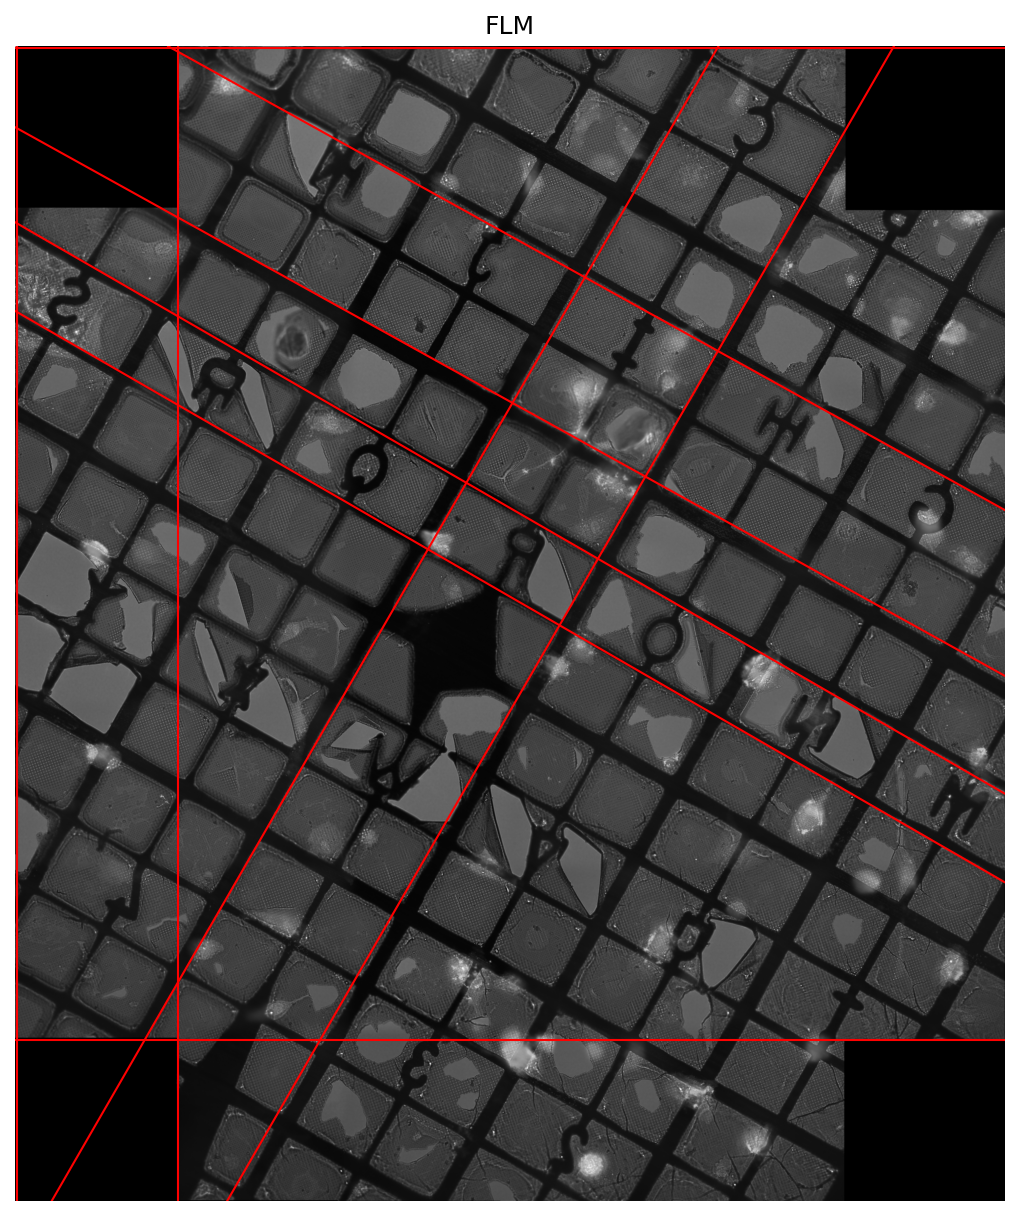
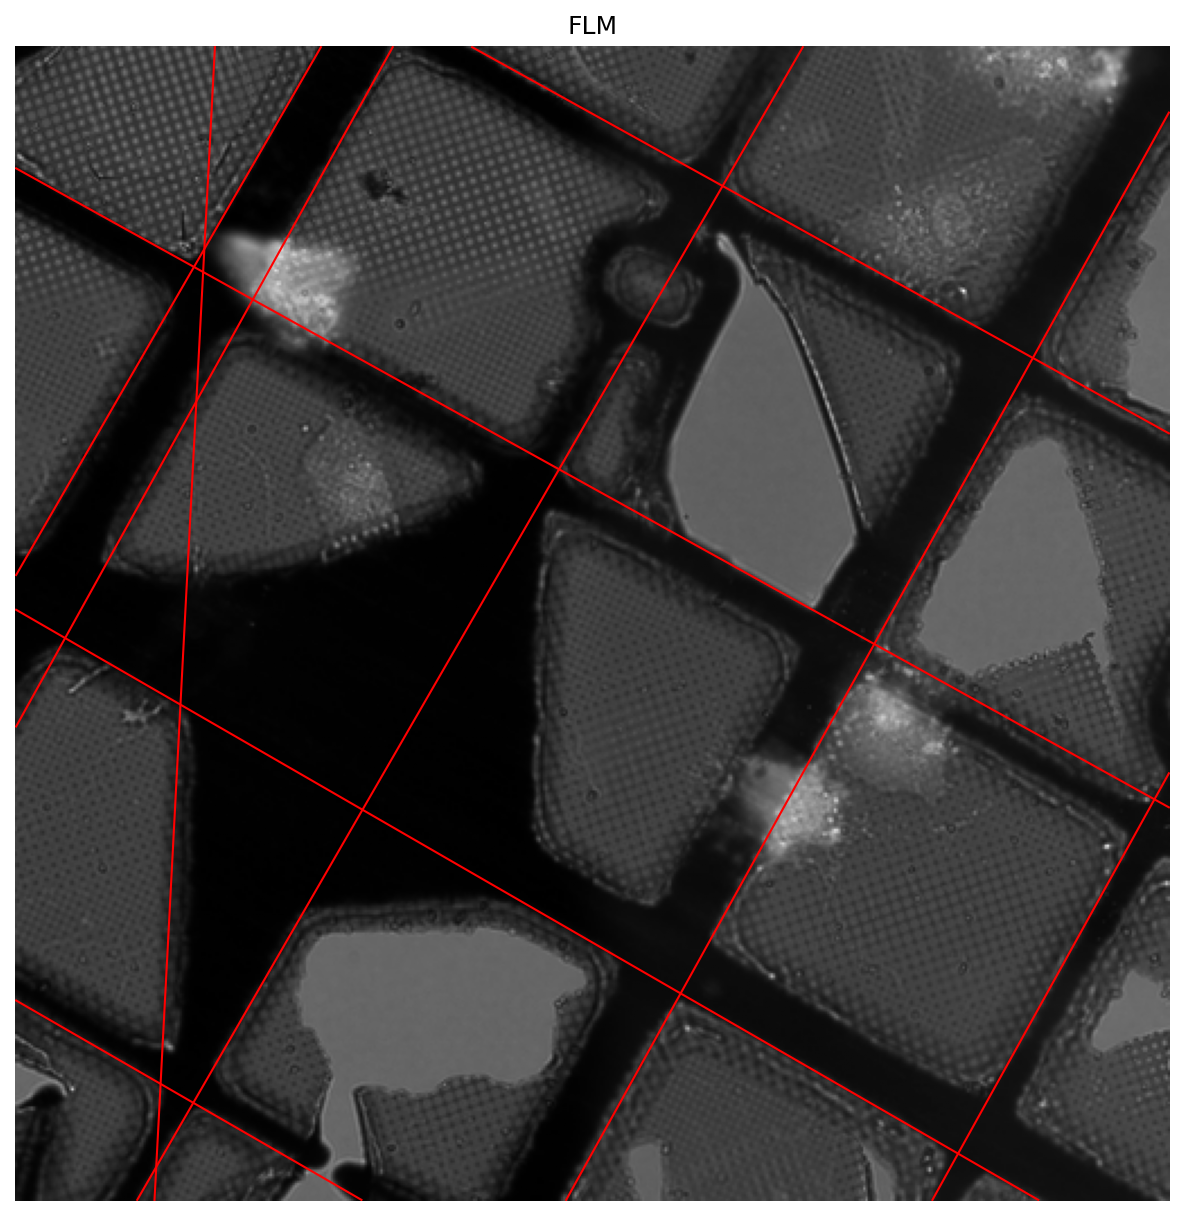
saving image as 512 x 512 is such a difficult task

diff --git a/detect_lines.py b/detect_lines.py
@@ -31,58 +31,96 @@ def detect_grid_lines(img, sigma=3, threshold=0.2, min_distance=50, min_angle=10
         lines.append((angle_val, dist_val))
     return lines, edges
 
-def visualize_detected_lines(img, lines, title="Detected Lines"):
-    """Visualize Hough lines that intersect the image."""
+def overlay_hough_lines(img, lines, value=255):
+    """
+    Draw Hough lines directly into a numpy image.
 
-    fig, ax = plt.subplots(1, 1, figsize=(10, 10))
+    img   : 2D numpy array (grayscale)
+    lines : list of (theta, d)
+    value : pixel value for lines
+
+    returns: new numpy array with lines overlaid
+    """
+    out = img.copy()
+    h, w = out.shape
+
+    for theta, d in lines:
+        cos_t, sin_t = np.cos(theta), np.sin(theta)
+        points = []
+
+        # Intersections with image borders
+        if abs(sin_t) > 1e-6:
+            y = d / sin_t
+            if 0 <= y < h:
+                points.append((0, y))
+            y = (d - (w - 1) * cos_t) / sin_t
+            if 0 <= y < h:
+                points.append((w - 1, y))
+
+        if abs(cos_t) > 1e-6:
+            x = d / cos_t
+            if 0 <= x < w:
+                points.append((x, 0))
+            x = (d - (h - 1) * sin_t) / cos_t
+            if 0 <= x < w:
+                points.append((x, h - 1))
+
+        if len(points) >= 2:
+            (x0, y0), (x1, y1) = points[:2]
+            x0, y0, x1, y1 = map(int, [x0, y0, x1, y1])
+
+            # Bresenham-style rasterization
+            rr = np.linspace(y0, y1, 1000).astype(int)
+            cc = np.linspace(x0, x1, 1000).astype(int)
+            valid = (rr >= 0) & (rr < h) & (cc >= 0) & (cc < w)
+            out[rr[valid], cc[valid]] = value
+
+    return out
+
+def visualize_detected_lines(img, lines, title="Detected Lines"):
+    """Visualize Hough lines overlaid on image and save as is."""
+
+    fig, ax = plt.subplots(1, 1, figsize=(10, 10), dpi=100)
     ax.imshow(img, cmap='gray')
     ax.set_title(title)
     ax.axis('off')
-
-    h, w = img.shape
-    lines_drawn = 0
-
+    ax.set_xlim(0, img.shape[1])
+    ax.set_ylim(img.shape[0], 0)  # Preserve top-to-bottom orientation
     for angle, dist in lines:
-        # Normal vector
-        cos_a = np.cos(angle)
-        sin_a = np.sin(angle)
-
-        # Find intersections with image boundaries
+        cos_a, sin_a = np.cos(angle), np.sin(angle)
         points = []
 
-        # Left edge: x = 0
-        if abs(sin_a) > 1e-6:
-            y = (dist - 0 * cos_a) / sin_a
-            if 0 <= y <= h - 1:
-                points.append((0, y))
+        # Intersections with image boundaries
+        h, w = img.shape
+        edges = [
+            (0, 0, w, 0),         # top
+            (w, 0, w, h),         # right
+            (w, h, 0, h),         # bottom
+            (0, h, 0, 0)          # left
+        ]
 
-        # Right edge: x = w - 1
-        if abs(sin_a) > 1e-6:
-            y = (dist - (w - 1) * cos_a) / sin_a
-            if 0 <= y <= h - 1:
-                points.append((w - 1, y))
+        for x1, y1, x2, y2 in edges:
+            # Line equation: dx = x2 - x1, dy = y2 - y1
+            dx, dy = x2 - x1, y2 - y1
+            # Parametric form: P = (x1 + t*dx, y1 + t*dy)
+            # Solve for intersection with: x*cos_a + y*sin_a = dist
+            denom = cos_a * dx + sin_a * dy
+            if abs(denom) > 1e-6:
+                t = (dist - cos_a * x1 - sin_a * y1) / denom
+                if 0 <= t <= 1:
+                    x = x1 + t * dx
+                    y = y1 + t * dy
+                    points.append((x, y))
 
-        # Top edge: y = 0
-        if abs(cos_a) > 1e-6:
-            x = (dist - 0 * sin_a) / cos_a
-            if 0 <= x <= w - 1:
-                points.append((x, 0))
-
-        # Bottom edge: y = h - 1
-        if abs(cos_a) > 1e-6:
-            x = (dist - (h - 1) * sin_a) / cos_a
-            if 0 <= x <= w - 1:
-                points.append((x, h - 1))
-
-        # Draw if at least two distinct intersection points
         if len(points) >= 2:
             p0, p1 = points[0], points[1]
             ax.plot([p0[0], p1[0]], [p0[1], p1[1]], 'r-', linewidth=1)
-            lines_drawn += 1
 
-    print(f"Drawn {lines_drawn}/{len(lines)} lines (others outside image)")
-    plt.savefig(f'lines_{title}.png', dpi=150, bbox_inches='tight')
+    # Save exactly as displayed — no resizing, no auto-scaling
+    plt.tight_layout(pad=0)
+    plt.savefig(f'lines_{title}.png', dpi=100, bbox_inches='tight', pad_inches=0)
     plt.close()
+
 def visualize_edges_only(img_path, sigma_range=[1, 2, 3], threshold_range=[0.1, 0.2, 0.3]):
     """Visualize ONLY edge detection results, no Hough lines."""
     os.makedirs("edge_tests", exist_ok=True)

diff --git a/main.py b/main.py
@@ -1,9 +1,11 @@
 from helper import *
 from detect_lines import *
+from skimage.io import imsave
 def main():
     # visualize_detected_dots(,)
     flm_img = load_image("./images/grid_1/flm.tif", )
     # tem_img = load_image("./images/grid_1/tem.tif", )
+    flm_img = center_crop(flm_img)
     lines, edges = detect_grid_lines(
         flm_img, 
         sigma=4,
@@ -12,7 +14,9 @@ def main():
         min_distance=25,
         num_peaks=10,
     )
-    visualize_detected_lines(flm_img, lines, "FLM")
+    out = overlay_hough_lines(flm_img, lines)
+    imsave("flm_512.png", out.astype(np.uint8))
+    # visualize_detected_lines(flm_img, lines, "TEM")
     # visualize_edges_only("./images/grid_1/flm.tif", threshold_range=[0.1, 0.2, 0.3], sigma_range=[6, 7, 8])
 if __name__ == "__main__":
     main()

diff --git a/helper.py b/helper.py
@@ -11,6 +11,13 @@ def load_image(path):
         img = img.mean(axis=2)
     return (img.astype(np.float32) - img.mean()) / (img.std() + 1e-8)
 
+def center_crop(img, crop_h=512, crop_w=512):
+    """Return center crop of the input image."""
+    h, w = img.shape[:2]
+    start_h = (h - crop_h) // 2
+    start_w = (w - crop_w) // 2
+    return img[start_h:start_h + crop_h, start_w:start_w + crop_w]
+
 def detect_dots(img, sigma=2, size=10, threshold_percentile=90):
     smoothed = ndimage.gaussian_filter(img, sigma=sigma)
     local_max = ndimage.maximum_filter(smoothed, size=size)
